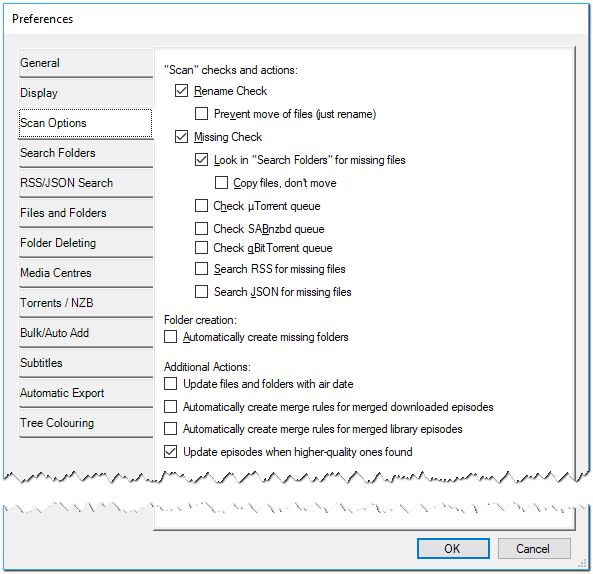
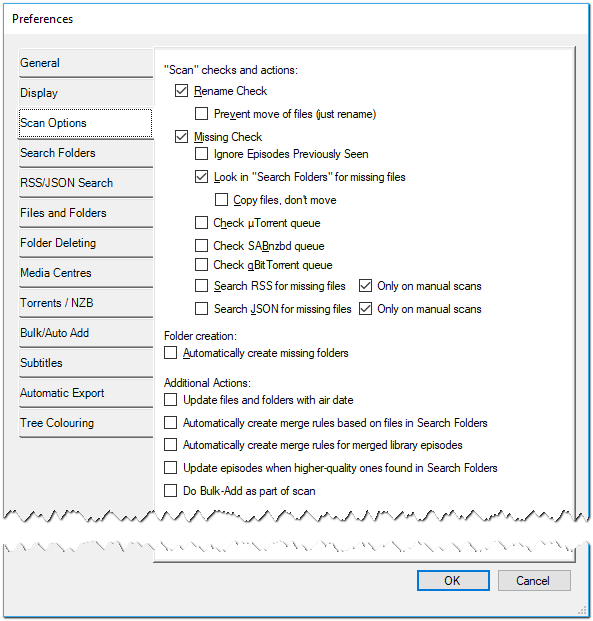
update scan options

Changed region(s): [[0.0, 0.0889, 1.0, 1.0], [0.0, 0.0, 0.9713, 0.0592], [0.0, 0.7997, 0.0304, 0.8293]]

diff --git a/_manual/options/preferences-scan-options.md b/_manual/options/preferences-scan-options.md
@@ -2,9 +2,9 @@
 ### The Scan Options Tab
 
 ![Preferences - the Scan Options tab]({{ site.baseurl }}/assets/images/options/preferences-scan-options-01.png){:.pic-l}
-This tab in conjunction with data from the _**µTorrent / NZB**_ tab controls the _**Scan**_ tabs checks and actions.
+This tab, in conjunction with data from the _**RSS/JSON**_ tab and the _**Torrents / NZB**_ tab, controls the _**Scan**_ tabs checks and actions.
 
-The settings in here are more or less self explanatory, however remember that the _**µTorrent / NZB**_ tab must be populated before the µTorrent and SABnzdb options can be used, and, similarly the **RSS/JSON Search** must be populated before the RSS and JSON options can be used.
+The settings in here are more or less self explanatory, however remember that the _**Torrents / NZB**_ tab must be populated before the µTorrent, qBittorrent and SABnzdb options can be used, and, similarly the **RSS/JSON Search** must be populated before the RSS and JSON options can be used.
 
 **NOTE:**{:style="color:red;"} If you use a NAS device as your media library and it is Linux based it has an epoch date of 01/01/1970&nbsp;00:00. Files cannot have a date/time-stamp earlier than this. If you have any TV Show episodes whose original release date was earlier than this and you have the _"Update files and folders with air date"_ box ticked they will be set to 01/01/1970&nbsp;00:00 to prevent repeated detection and attempts to change during scans.
 
@@ -16,14 +16,17 @@ The settings in here are more or less self explanatory, however remember that th
 | | Copy files, don't move | _**Un-ticked**_ |
 | | Check µTorrent queue | _**Un-ticked**_ |
 | | Check SABnzdb queue | _**Un-ticked**_ |
-| | Check qBittorrent queue | **Un-ticked** |
+| | Check qBittorrent queue | _**Un-ticked**_ |
 | | Search RSS for missing files | _**Un-ticked**_ |
+| | Search RSS for missing files Only on manual scans | _**Un-ticked**_ |
 | | Search JSON for missing files | _**Un-ticked**_ |
+| | Search JSON for missing files Only on manual scans | _**Un-ticked**_ |
 | Folder Creation | Automatically create missing folders | _**Un-ticked**_ |
 | Additional Actions | Update files and folders with air date | _**Un-ticked**_ |
 | | Automatically create merge rules for merged downloaded episodes | _**Un-ticked**_ |
 | | Automatically create merge rules for merged library episodes | _**Un-ticked**_ |
-| | Update episodes when higher quality ones found | _**Ticked**_ |
+| | Update episodes when higher quality ones found | _**Un-ticked**_ |
+| | Do Bulk Add as part of scan | _**Un-ticked**_ |
 
 {:.toplink}
 [Return to Top]()
